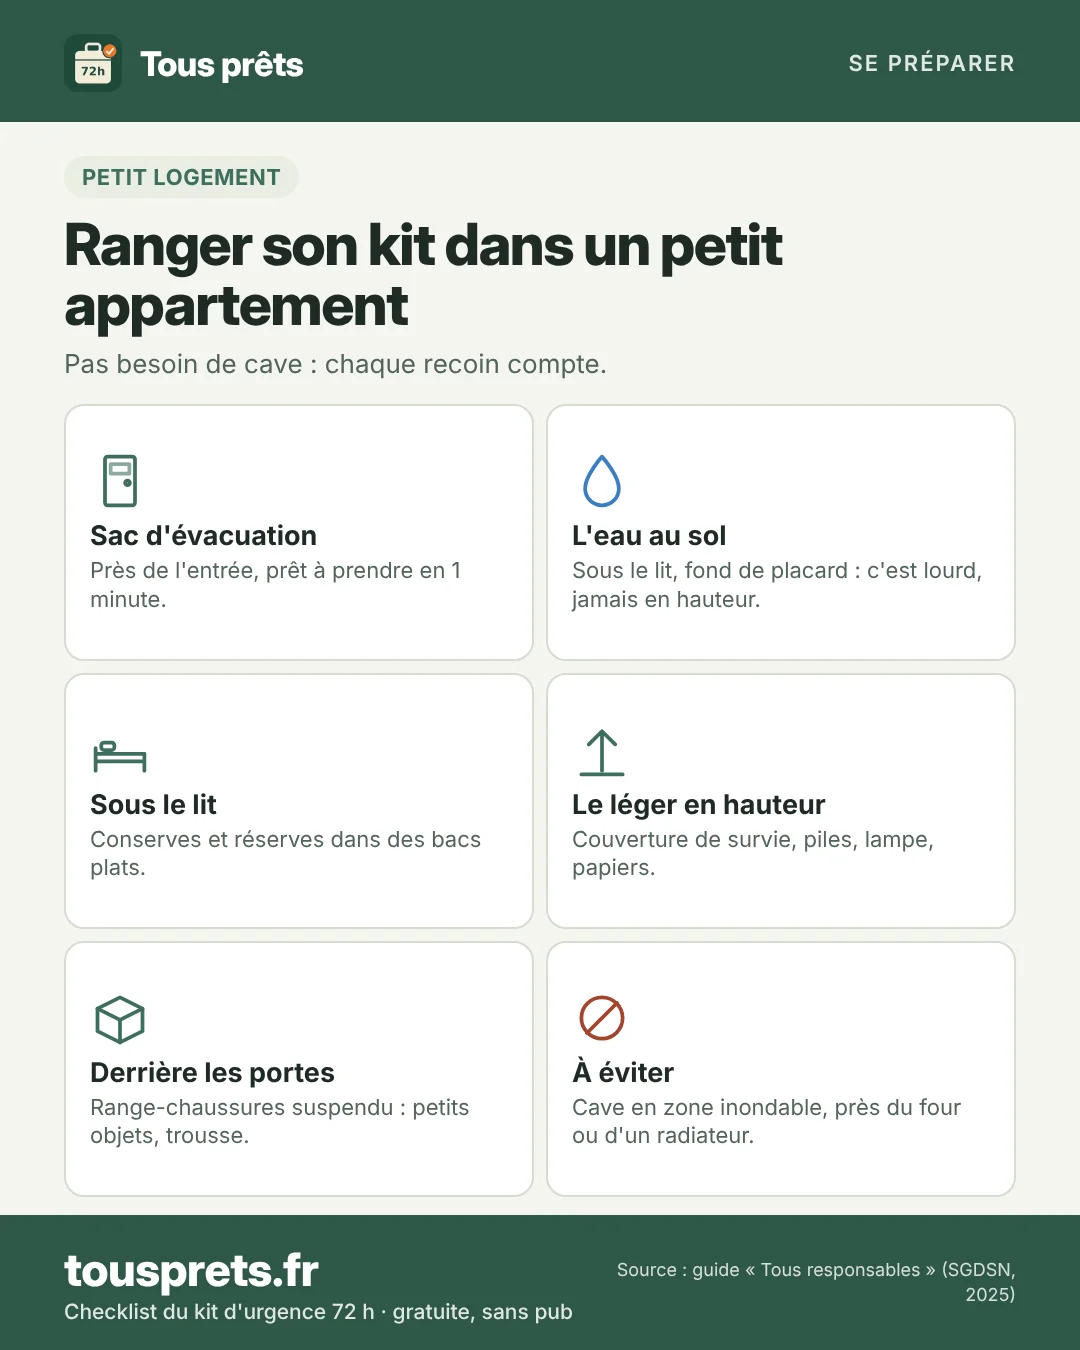
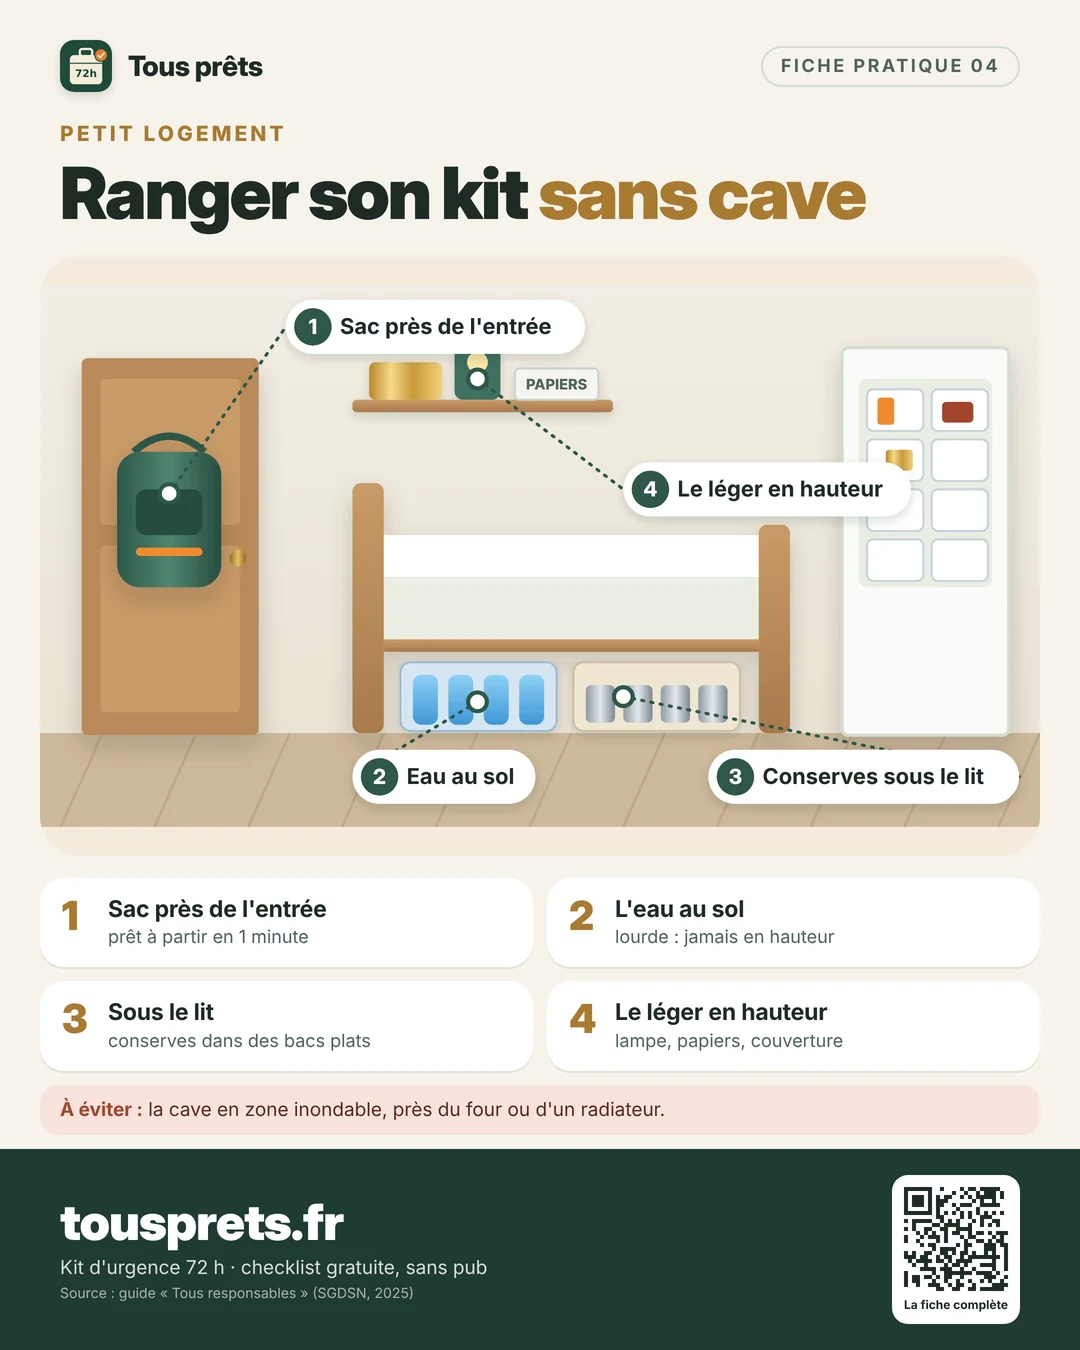
Visuels v2 : fiches pratiques illustrées, haute définition, QR code
- Illustrations détaillées (volumes, dégradés, ombres) avec repères numérotés
- Moins de texte, titres courts, étapes scannables
- QR code vers la page Questions-réponses sur chaque fiche
- PNG 2160x2700 pour le téléchargement, WebP 1080x1350 pour l'affichage

Claude-Session: https://claude.ai/code/session_013mzcVvzi18jMtfkVhrsfub

diff --git a/sw.js b/sw.js
@@ -6,7 +6,7 @@
   IMPORTANT : incrémente CACHE_VERSION à chaque mise à jour.
 */
 
-const CACHE_VERSION = 'tous-prets-v42';
+const CACHE_VERSION = 'tous-prets-v43';
 const PRECACHE_URLS = [
   './',
   './index.html',
